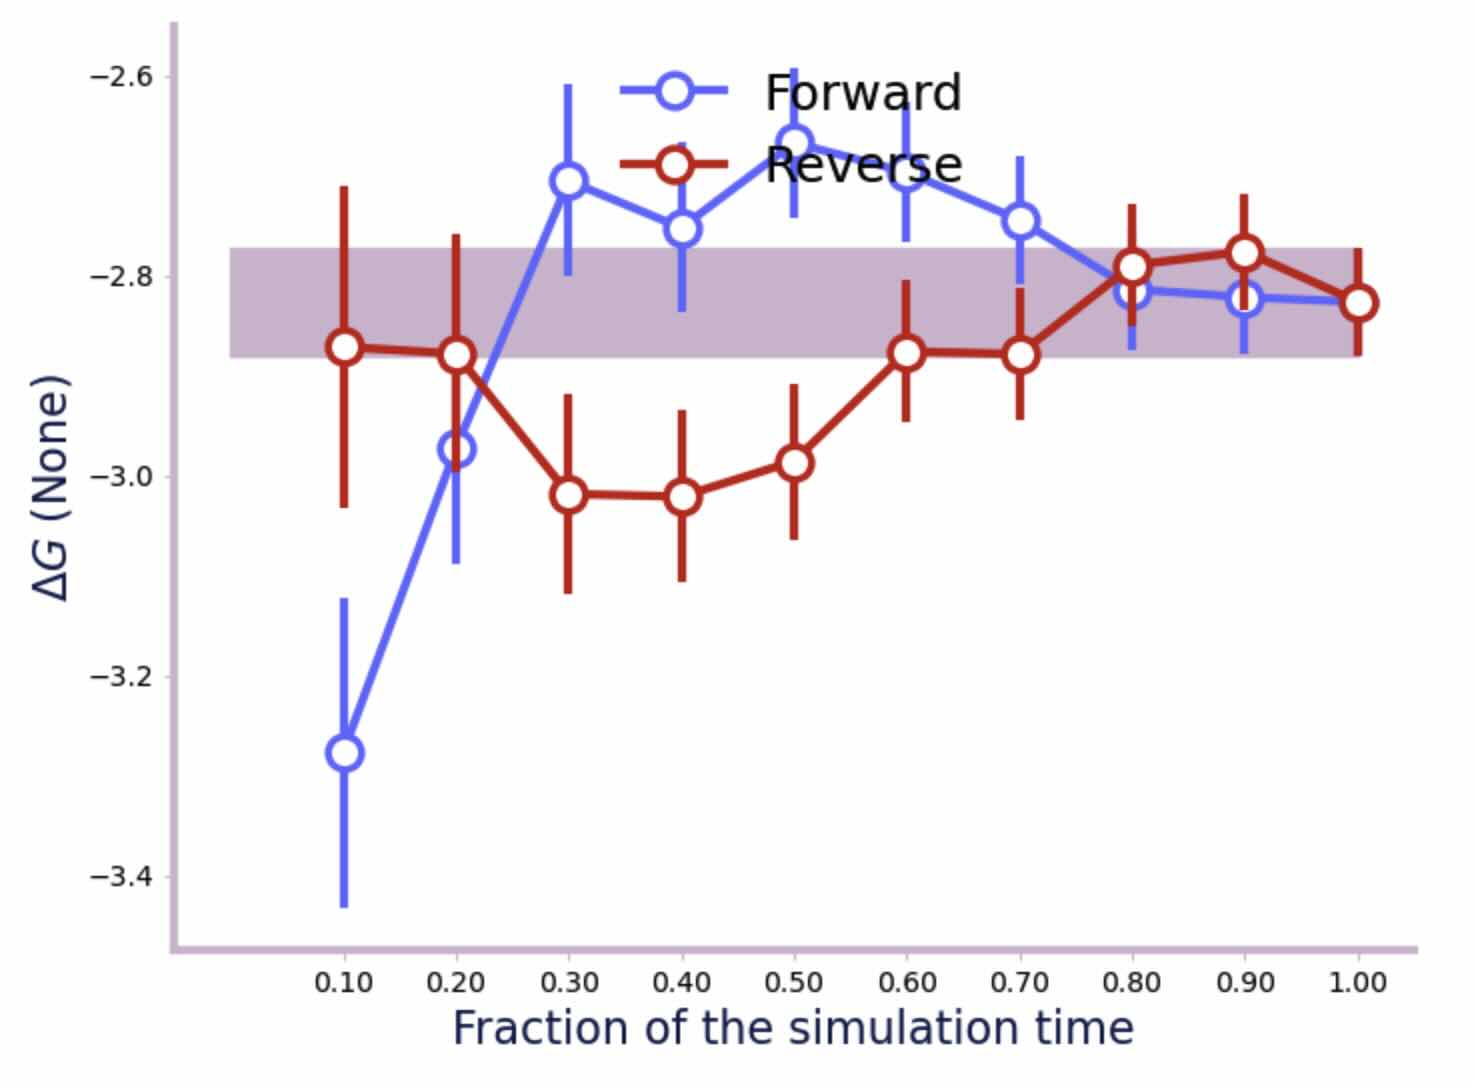
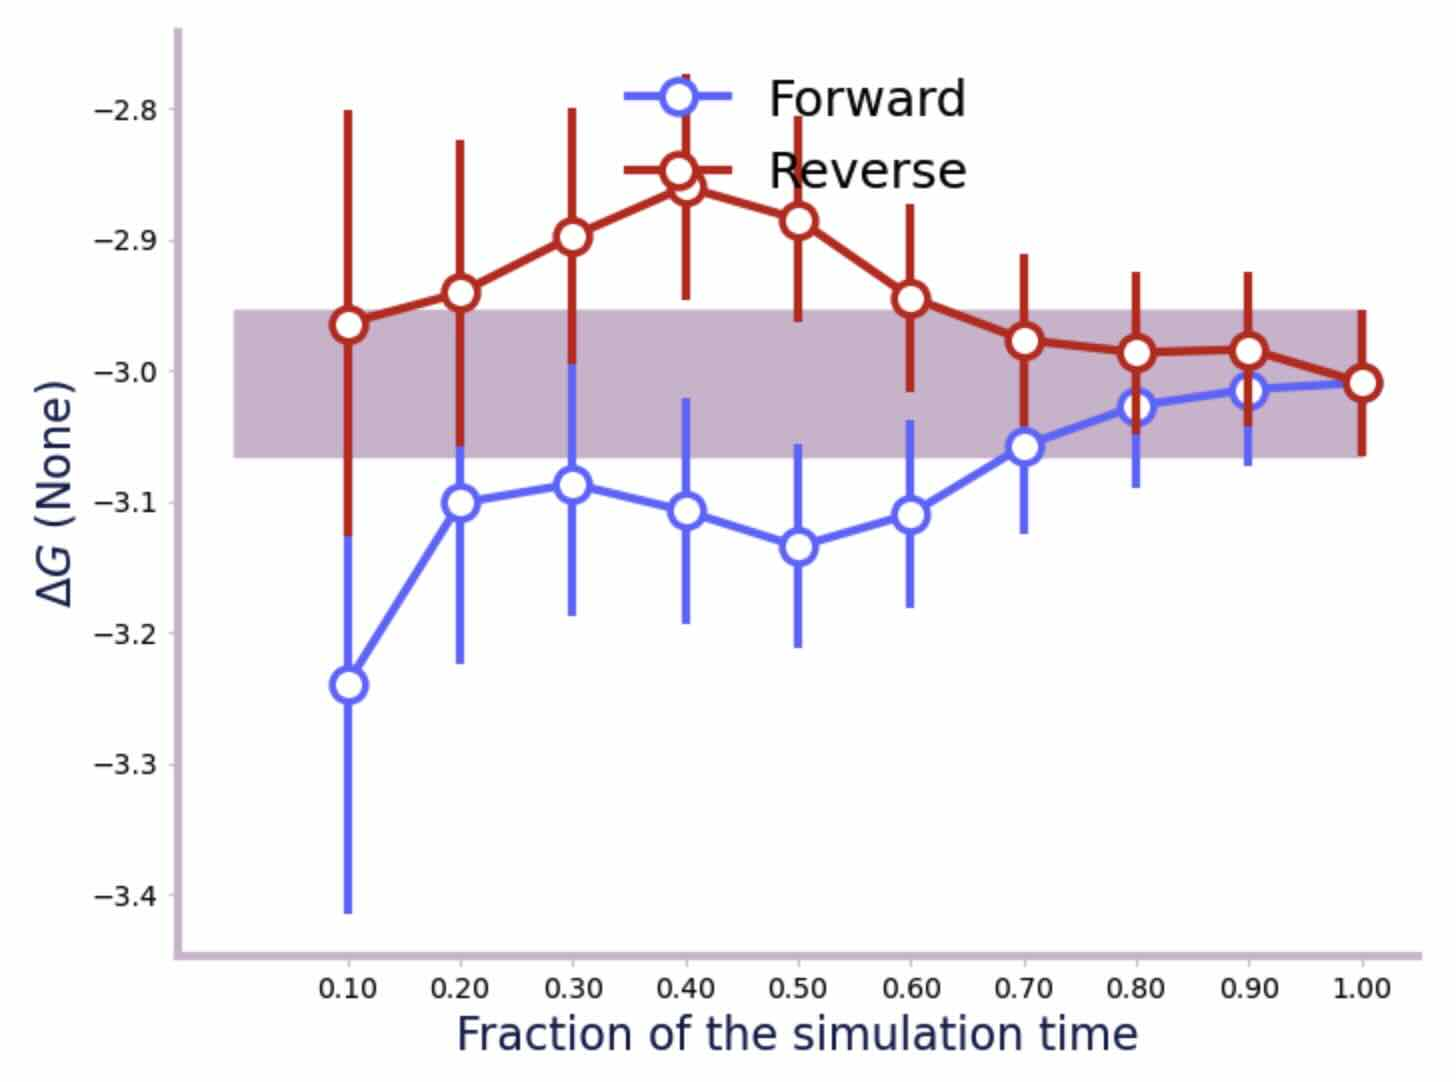
Cleaning up the website ready for the release. Moved the blog posts into their own section so that they appear in the menu.
Fixed the tutorial that hadn't been updated with the new default value of
to_pandas=False

Re-ran the simulations in 05_free_energy_perturbation to make sure that they
were consistent and worked with the new options. The results are in great
agreement with those on the next page.

[ci skip]

Changed region(s): [[0.0, 0.0305, 0.989, 0.976]]

diff --git a/doc/source/tutorial/part06/02_alchemical_dynamics.rst b/doc/source/tutorial/part06/02_alchemical_dynamics.rst
@@ -42,6 +42,8 @@ For example, we could minimise our alchemical system at λ=0.5 using
 
 >>> import sire as sr
 >>> mols = sr.load(sr.expand(sr.tutorial_url, "merged_molecule.s3"))
+>>> for mol in mols.molecules("molecule property is_perturbable"):
+...     mols.update(mol.perturbation().link_to_reference().commit())
 >>> mols = mols.minimisation(lambda_value=0.5).run().commit()
 
 We can then run some dynamics at this λ-value using
@@ -50,7 +52,7 @@ We can then run some dynamics at this λ-value using
 >>> d.run("10ps", save_frequency="1ps")
 >>> mols = d.commit()
 >>> print(d)
-Dynamics(completed=10 ps, energy=-31213.8 kcal mol-1, speed=194.7 ns day-1)
+Dynamics(completed=10 ps, energy=-33741.4 kcal mol-1, speed=90.7 ns day-1)
 
 The result of dynamics is a trajectory run at this λ-value. You can view the
 trajectory as you would any other, using ``mols.view()``.
@@ -64,20 +66,21 @@ sampled by the molecules during the trajectory. You can access this
 energy trajectory via the :func:`~sire.system.System.energy_trajectory`
 function, e.g.
 
->>> df = mols.energy_trajectory()
->>> print(df)
-          kinetic     potential
-time
-1.0   4461.033219 -43523.347617
-2.0   6095.724385 -41312.514682
-3.0   6588.720597 -40003.958276
-4.0   6853.529444 -39283.565112
-5.0   7080.551573 -38722.021135
-6.0   7073.422652 -38677.147808
-7.0   7086.066481 -38527.530217
-8.0   7264.413320 -38408.505361
-9.0   7271.934837 -38589.671709
-10.0  7214.294605 -38444.356221
+>>> t = mols.energy_trajectory()
+>>> print(t)
+EnergyTrajectory( size=10
+time	lambda	0.5	kinetic	potential
+1	0.5	-45509.8	4402.32	-45509.8
+2	0.5	-43644.2	6105.82	-43644.2
+3	0.5	-42466.9	6635.76	-42466.9
+4	0.5	-41678.9	7006.96	-41678.9
+5	0.5	-41306.2	7019.09	-41306.2
+6	0.5	-41201.9	7098.73	-41201.9
+7	0.5	-41046.8	7229.69	-41046.8
+8	0.5	-40949.4	7172.58	-40949.4
+9	0.5	-40928.5	7234.13	-40928.5
+10	0.5	-40855.4	7226.52	-40855.4
+)
 
 .. note::
 
@@ -85,26 +88,31 @@ time
    and temperature control. The exact energies you get from dynamics will
    be different to what is shown here.
 
-By default, this trajectory is returned as a
-`pandas DataFrame <https://pandas.pydata.org/pandas-docs/stable/reference/frame.html>`__.
-You can get the underlying :class:`sire.maths.EnergyTrajectory` function
-by passing ``to_pandas=False``, e.g.
+The result is a :class:`sire.maths.EnergyTrajectory` object. If you want,
+you can also ask for the energy trajetory to be returned as a
+`pandas DataFrame <https://pandas.pydata.org/pandas-docs/stable/reference/frame.html>`__,
+by using the ``to_pandas`` argument, e.g.
 
->>> t = mols.energy_trajectory(to_pandas=False)
->>> print(t)
-EnergyTrajectory( size=10
-time	kinetic	potential
-1	4461.03	-43523.3
-2	6095.72	-41312.5
-3	6588.72	-40004
-4	6853.53	-39283.6
-5	7080.55	-38722
-6	7073.42	-38677.1
-7	7086.07	-38527.5
-8	7264.41	-38408.5
-9	7271.93	-38589.7
-10	7214.29	-38444.4
-)
+>>> df = mols.energy_trajectory(to_pandas=True)
+>>> print(df)
+      lambda           0.5      kinetic     potential
+time
+1.0      0.5 -45509.784041  4402.317703 -45509.784041
+2.0      0.5 -43644.165016  6105.819473 -43644.165016
+3.0      0.5 -42466.942263  6635.760728 -42466.942263
+4.0      0.5 -41678.910475  7006.955030 -41678.910475
+5.0      0.5 -41306.210905  7019.094675 -41306.210905
+6.0      0.5 -41201.944653  7098.727370 -41201.944653
+7.0      0.5 -41046.829930  7229.685671 -41046.829930
+8.0      0.5 -40949.435093  7172.578640 -40949.435093
+9.0      0.5 -40928.462340  7234.130710 -40928.462340
+10.0     0.5 -40855.386336  7226.516672 -40855.386336
+
+.. note::
+
+   You could also have obtained a DataFrame by calling the
+   :meth:`~sire.maths.EnergyTrajectory.to_pandas` function of
+   the :class:`~sire.maths.EnergyTrajectory` object.
 
 You calculate free energies by evaluating the potential energy for different
 values of λ during dynamics. You can control which values of λ are used
@@ -113,28 +121,29 @@ values of λ during dynamics. You can control which values of λ are used
 >>> d = mols.dynamics(lambda_value=0.5, timestep="4fs", temperature="25oC")
 >>> d.run("10ps", save_frequency="1ps", lambda_windows=[0.4, 0.6])
 >>> mols = d.commit()
->>> print(mols.energy_trajectory())
-               0.4           0.5           0.6      kinetic     potential
+>>> print(mols.energy_trajectory().to_pandas())
+      lambda           0.4           0.5           0.6      kinetic     potential
 time
-1.0            NaN           NaN           NaN  4461.033219 -43523.347617
-2.0            NaN           NaN           NaN  6095.724385 -41312.514682
-3.0            NaN           NaN           NaN  6588.720597 -40003.958276
-4.0            NaN           NaN           NaN  6853.529444 -39283.565112
-5.0            NaN           NaN           NaN  7080.551573 -38722.021135
-6.0            NaN           NaN           NaN  7073.422652 -38677.147808
-7.0            NaN           NaN           NaN  7086.066481 -38527.530217
-8.0            NaN           NaN           NaN  7264.413320 -38408.505361
-9.0            NaN           NaN           NaN  7271.934837 -38589.671709
-10.0           NaN           NaN           NaN  7214.294605 -38444.356221
-11.0 -40712.392040 -40712.520657 -40712.684409  6154.441842 -40712.520657
-12.0 -39714.124832 -39714.253449 -39714.327574  6611.854460 -39714.253449
-13.0 -39152.132719 -39152.769223 -39153.291484  6924.754530 -39152.769223
-14.0 -38791.263933 -38791.601680 -38791.944687  7027.605561 -38791.601680
-15.0 -38568.331333 -38568.519701 -38568.683453  7040.809156 -38568.519701
-16.0 -38558.203465 -38558.302206 -38558.376331  7166.843369 -38558.302206
-17.0 -38605.586352 -38606.133229 -38606.595738  7195.020226 -38606.133229
-18.0 -38618.731667 -38618.412148 -38618.068013  7170.302626 -38618.412148
-19.0 -38611.651122 -38612.317502 -38612.989142  7182.904255 -38612.317502
+1.0      0.5           NaN -45509.784041           NaN  4402.317703 -45509.784041
+2.0      0.5           NaN -43644.165016           NaN  6105.819473 -43644.165016
+3.0      0.5           NaN -42466.942263           NaN  6635.760728 -42466.942263
+4.0      0.5           NaN -41678.910475           NaN  7006.955030 -41678.910475
+5.0      0.5           NaN -41306.210905           NaN  7019.094675 -41306.210905
+6.0      0.5           NaN -41201.944653           NaN  7098.727370 -41201.944653
+7.0      0.5           NaN -41046.829930           NaN  7229.685671 -41046.829930
+8.0      0.5           NaN -40949.435093           NaN  7172.578640 -40949.435093
+9.0      0.5           NaN -40928.462340           NaN  7234.130710 -40928.462340
+10.0     0.5           NaN -40855.386336           NaN  7226.516672 -40855.386336
+11.0     0.5 -43210.778752 -43211.624385 -43211.937516  6219.582732 -43211.624385
+12.0     0.5 -42405.359296 -42405.219032 -42404.934648  6807.796036 -42405.219032
+13.0     0.5 -41724.163073 -41724.470944 -41724.664572  6942.723457 -41724.470944
+14.0     0.5 -41282.749354 -41282.638965 -41282.324706  7174.870863 -41282.638965
+15.0     0.5 -41091.395386 -41090.926489 -41090.283597  7121.938171 -41090.926489
+16.0     0.5 -41020.530186 -41020.300294 -41019.896407  7243.171748 -41020.300294
+17.0     0.5 -41027.939363 -41027.739347 -41027.365337  7112.568694 -41027.739347
+18.0     0.5 -40947.962069 -40948.210188 -40948.254438  7086.990231 -40948.210188
+19.0     0.5 -41063.162834 -41064.038343 -41064.470977  7173.505327 -41064.038343
+20.0     0.5 -40997.466132 -40997.774003 -40997.907880  7211.324644 -40997.774003
 
 This has run a new trajectory, evaluating the potential energy at the
 simulation λ-value (0.5) as well as at λ-windows 0.4 and 0.6. You can pass in
@@ -166,20 +175,20 @@ but saving energies every 20 femtoseconds.
 >>> d.run("10ps", frame_frequency="1ps", energy_frequency="20fs",
 ...       lambda_windows=[0.4, 0.6])
 >>> mols = d.commit()
->>> print(mols.energy_trajectory())
-                0.4           0.5           0.6      kinetic     potential
+>>> print(mols.energy_trajectory().to_pandas())
+       lambda           0.4           0.5           0.6      kinetic     potential
 time
-1.00            NaN           NaN           NaN  4461.033219 -43523.347617
-2.00            NaN           NaN           NaN  6095.724385 -41312.514682
-3.00            NaN           NaN           NaN  6588.720597 -40003.958276
-4.00            NaN           NaN           NaN  6853.529444 -39283.565112
-5.00            NaN           NaN           NaN  7080.551573 -38722.021135
-...             ...           ...           ...          ...           ...
-29.92 -38389.435539 -38389.414777 -38389.279773  7332.296186 -38389.414777
-29.94 -38353.913312 -38354.131556 -38354.235557  7301.874742 -38354.131556
-29.96 -38371.599736 -38371.549099 -38371.384218  7293.633958 -38371.549099
-29.98 -38253.351648 -38253.271135 -38253.195882  7186.511174 -38253.271135
-30.00 -38305.305520 -38305.195131 -38305.090002  7234.784841 -38305.195131
+1.00      0.5           NaN -45509.784041           NaN  4402.317703 -45509.784041
+2.00      0.5           NaN -43644.165016           NaN  6105.819473 -43644.165016
+3.00      0.5           NaN -42466.942263           NaN  6635.760728 -42466.942263
+4.00      0.5           NaN -41678.910475           NaN  7006.955030 -41678.910475
+5.00      0.5           NaN -41306.210905           NaN  7019.094675 -41306.210905
+...       ...           ...           ...           ...          ...           ...
+29.92     0.5 -40892.930998 -40892.850485 -40892.506350  7306.237779 -40892.850485
+29.94     0.5 -40890.720195 -40891.326823 -40891.729581  7314.180669 -40891.326823
+29.96     0.5 -40869.209679 -40868.920036 -40868.426522  7305.782760 -40868.920036
+29.98     0.5 -40828.250071 -40828.378688 -40828.243683  7270.175960 -40828.378688
+30.00     0.5 -40764.913551 -40764.504405 -40763.921264  7140.896560 -40764.504405
 
 Controlling perturbations with a λ-schedule
 -------------------------------------------

diff --git a/doc/source/tutorial/part06/05_free_energy_perturbation.rst b/doc/source/tutorial/part06/05_free_energy_perturbation.rst
@@ -168,17 +168,17 @@ DataFrame...
 >>> print(df)
                          0.00          0.05  0.10  0.15  0.20  0.25  0.30  0.35  ...  0.65  0.70  0.75  0.80  0.85  0.90          0.95          1.00
 time fep-lambda                                                                  ...
-2.1  0.0        -39086.631401 -39087.128936   NaN   NaN   NaN   NaN   NaN   NaN  ...   NaN   NaN   NaN   NaN   NaN   NaN           NaN           NaN
-2.2  0.0        -39061.954059 -39062.600973   NaN   NaN   NaN   NaN   NaN   NaN  ...   NaN   NaN   NaN   NaN   NaN   NaN           NaN           NaN
-2.3  0.0        -38843.084556 -38843.492464   NaN   NaN   NaN   NaN   NaN   NaN  ...   NaN   NaN   NaN   NaN   NaN   NaN           NaN           NaN
-2.4  0.0        -38841.351765 -38841.968803   NaN   NaN   NaN   NaN   NaN   NaN  ...   NaN   NaN   NaN   NaN   NaN   NaN           NaN           NaN
-2.5  0.0        -38809.474375 -38810.061537   NaN   NaN   NaN   NaN   NaN   NaN  ...   NaN   NaN   NaN   NaN   NaN   NaN           NaN           NaN
+2.1  0.0        -39300.750665 -39301.636585   NaN   NaN   NaN   NaN   NaN   NaN  ...   NaN   NaN   NaN   NaN   NaN   NaN           NaN           NaN
+2.2  0.0        -39231.737759 -39232.504175   NaN   NaN   NaN   NaN   NaN   NaN  ...   NaN   NaN   NaN   NaN   NaN   NaN           NaN           NaN
+2.3  0.0        -38982.663906 -38982.683430   NaN   NaN   NaN   NaN   NaN   NaN  ...   NaN   NaN   NaN   NaN   NaN   NaN           NaN           NaN
+2.4  0.0        -38950.308505 -38950.357904   NaN   NaN   NaN   NaN   NaN   NaN  ...   NaN   NaN   NaN   NaN   NaN   NaN           NaN           NaN
+2.5  0.0        -38732.275522 -38733.221193   NaN   NaN   NaN   NaN   NaN   NaN  ...   NaN   NaN   NaN   NaN   NaN   NaN           NaN           NaN
 ...                       ...           ...   ...   ...   ...   ...   ...   ...  ...   ...   ...   ...   ...   ...   ...           ...           ...
-26.6 1.0                  NaN           NaN   NaN   NaN   NaN   NaN   NaN   NaN  ...   NaN   NaN   NaN   NaN   NaN   NaN -37433.120745 -37433.277280
-26.7 1.0                  NaN           NaN   NaN   NaN   NaN   NaN   NaN   NaN  ...   NaN   NaN   NaN   NaN   NaN   NaN -37306.925716 -37307.769393
-26.8 1.0                  NaN           NaN   NaN   NaN   NaN   NaN   NaN   NaN  ...   NaN   NaN   NaN   NaN   NaN   NaN -37447.401338 -37447.826754
-26.9 1.0                  NaN           NaN   NaN   NaN   NaN   NaN   NaN   NaN  ...   NaN   NaN   NaN   NaN   NaN   NaN -37415.822705 -37416.427376
-27.0 1.0                  NaN           NaN   NaN   NaN   NaN   NaN   NaN   NaN  ...   NaN   NaN   NaN   NaN   NaN   NaN -37371.756022 -37372.181439
+26.6 1.0                  NaN           NaN   NaN   NaN   NaN   NaN   NaN   NaN  ...   NaN   NaN   NaN   NaN   NaN   NaN -37208.485229 -37208.880770
+26.7 1.0                  NaN           NaN   NaN   NaN   NaN   NaN   NaN   NaN  ...   NaN   NaN   NaN   NaN   NaN   NaN -37332.051194 -37332.476611
+26.8 1.0                  NaN           NaN   NaN   NaN   NaN   NaN   NaN   NaN  ...   NaN   NaN   NaN   NaN   NaN   NaN -37276.392733 -37276.609020
+26.9 1.0                  NaN           NaN   NaN   NaN   NaN   NaN   NaN   NaN  ...   NaN   NaN   NaN   NaN   NaN   NaN -37234.238097 -37234.603762
+27.0 1.0                  NaN           NaN   NaN   NaN   NaN   NaN   NaN   NaN  ...   NaN   NaN   NaN   NaN   NaN   NaN -37268.684798 -37269.319345
 
 .. note::
 
@@ -201,7 +201,7 @@ Now we can tell alchemlyb to calculate the free energy using the BAR method.
 >>> b = BAR()
 >>> b.fit(df)
 >>> print(b.delta_f_.loc[0.00, 1.00])
--2.826669414062424
+-3.009332126465953
 
 You can get a convergence plot, showing how the free energy changes as
 a function of the simulation length using the ``convergence_plot`` function.
@@ -215,7 +215,7 @@ a function of the simulation length using the ``convergence_plot`` function.
    :alt: Convergence of the free energy estimate as a function of the fraction of simulation length
 
 All of this shows that the relative free energy for the perturbation of
-ethane to methanol in water is about -2.8 kcal mol-1.
+ethane to methanol in water is about -3.0 kcal mol-1.
 
 To get the relative hydration free energy, we would need to complete the
 cycle by calculating the relative free energy for the perturbation in the
@@ -277,27 +277,27 @@ switch to analysing the ``energy_gas_{lambda}.s3`` files instead.
 >>> print(df)
                      0.00      0.05  0.10  0.15  0.20  0.25  0.30  0.35  0.40  ...  0.60  0.65  0.70  0.75  0.80  0.85  0.90      0.95      1.00
 time fep-lambda                                                                ...
-2.1  0.0         4.085486  4.142311   NaN   NaN   NaN   NaN   NaN   NaN   NaN  ...   NaN   NaN   NaN   NaN   NaN   NaN   NaN       NaN       NaN
-2.2  0.0         3.664548  3.540637   NaN   NaN   NaN   NaN   NaN   NaN   NaN  ...   NaN   NaN   NaN   NaN   NaN   NaN   NaN       NaN       NaN
-2.3  0.0         4.288558  4.217284   NaN   NaN   NaN   NaN   NaN   NaN   NaN  ...   NaN   NaN   NaN   NaN   NaN   NaN   NaN       NaN       NaN
-2.4  0.0         5.630108  5.656710   NaN   NaN   NaN   NaN   NaN   NaN   NaN  ...   NaN   NaN   NaN   NaN   NaN   NaN   NaN       NaN       NaN
-2.5  0.0         5.823004  5.901361   NaN   NaN   NaN   NaN   NaN   NaN   NaN  ...   NaN   NaN   NaN   NaN   NaN   NaN   NaN       NaN       NaN
+2.1  0.0         6.966376  7.115377   NaN   NaN   NaN   NaN   NaN   NaN   NaN  ...   NaN   NaN   NaN   NaN   NaN   NaN   NaN       NaN       NaN
+2.2  0.0         6.614100  6.434525   NaN   NaN   NaN   NaN   NaN   NaN   NaN  ...   NaN   NaN   NaN   NaN   NaN   NaN   NaN       NaN       NaN
+2.3  0.0         6.782235  6.831925   NaN   NaN   NaN   NaN   NaN   NaN   NaN  ...   NaN   NaN   NaN   NaN   NaN   NaN   NaN       NaN       NaN
+2.4  0.0         4.196341  4.227257   NaN   NaN   NaN   NaN   NaN   NaN   NaN  ...   NaN   NaN   NaN   NaN   NaN   NaN   NaN       NaN       NaN
+2.5  0.0         4.141862  4.205784   NaN   NaN   NaN   NaN   NaN   NaN   NaN  ...   NaN   NaN   NaN   NaN   NaN   NaN   NaN       NaN       NaN
 ...                   ...       ...   ...   ...   ...   ...   ...   ...   ...  ...   ...   ...   ...   ...   ...   ...   ...       ...       ...
-26.6 1.0              NaN       NaN   NaN   NaN   NaN   NaN   NaN   NaN   NaN  ...   NaN   NaN   NaN   NaN   NaN   NaN   NaN  9.700262  9.410045
-26.7 1.0              NaN       NaN   NaN   NaN   NaN   NaN   NaN   NaN   NaN  ...   NaN   NaN   NaN   NaN   NaN   NaN   NaN  8.392478  8.604776
-26.8 1.0              NaN       NaN   NaN   NaN   NaN   NaN   NaN   NaN   NaN  ...   NaN   NaN   NaN   NaN   NaN   NaN   NaN  9.079360  9.535467
-26.9 1.0              NaN       NaN   NaN   NaN   NaN   NaN   NaN   NaN   NaN  ...   NaN   NaN   NaN   NaN   NaN   NaN   NaN  8.791467  8.723334
-27.0 1.0              NaN       NaN   NaN   NaN   NaN   NaN   NaN   NaN   NaN  ...   NaN   NaN   NaN   NaN   NaN   NaN   NaN  8.933618  9.388087
+26.6 1.0              NaN       NaN   NaN   NaN   NaN   NaN   NaN   NaN   NaN  ...   NaN   NaN   NaN   NaN   NaN   NaN   NaN  8.246601  8.707174
+26.7 1.0              NaN       NaN   NaN   NaN   NaN   NaN   NaN   NaN   NaN  ...   NaN   NaN   NaN   NaN   NaN   NaN   NaN  7.169596  7.100342
+26.8 1.0              NaN       NaN   NaN   NaN   NaN   NaN   NaN   NaN   NaN  ...   NaN   NaN   NaN   NaN   NaN   NaN   NaN  6.422485  6.466972
+26.9 1.0              NaN       NaN   NaN   NaN   NaN   NaN   NaN   NaN   NaN  ...   NaN   NaN   NaN   NaN   NaN   NaN   NaN  5.892950  6.129184
+27.0 1.0              NaN       NaN   NaN   NaN   NaN   NaN   NaN   NaN   NaN  ...   NaN   NaN   NaN   NaN   NaN   NaN   NaN  7.487893  7.618827
 >>> from alchemlyb.estimators import BAR
 >>> b = BAR()
 >>> b.fit(df)
 >>> print(b.delta_f_.loc[0.00, 1.00])
-3.049637014744972
+3.186998316374265
 
 This shows that the relative free energy for the perturbation of ethane
-to methanol in the gas phase is about 3.0 kcal mol-1. Subtracting this
+to methanol in the gas phase is about 3.2 kcal mol-1. Subtracting this
 from the free energy in water gives a relative hydration free energy of
-about -5.9 kcal mol-1, which is in reasonable agreement with
+about -6.2 kcal mol-1, which is in reasonable agreement with
 `published results from other codes <https://www.pure.ed.ac.uk/ws/portalfiles/portal/75900057/20181010_Michel_reprod.pdf>`__
 which are in the range of -5.99 kcal mol-1 to -6.26 kcal mol-1.
 

diff --git a/doc/source/blogposts.rst b/doc/source/blogposts.rst
@@ -1,0 +1,45 @@
+=======
+Diaries
+=======
+
+Development of :mod:`sire` is an ongoing process involving many people.
+This section of the documentation is a collection of diary-style
+blog posts that describe the development of :mod:`sire` and
+new features as they are added.
+
+What's in a file? Using sire search
+-----------------------------------
+
+* `What's in a file? Using sire search <https://www.openbiosim.org/ten-minute-sire-challenge/>`__
+
+In this first post, written around the 2023.1 release,
+we describe the :doc:`sire search <cheatsheet/search>`
+functionality that enables :mod:`sire` to act like a molecular information
+search engine.
+
+Working with RDKit
+------------------
+
+* `Working with RDKit <https://www.openbiosim.org/working-with-rdkit/>`__
+
+In this second post, written around the 2023.2 release,
+we show how :doc:`integration with RDKit <tutorial/part05/03_smiles>`
+enables :mod:`sire` to work with SMILES strings and RDKit molecules.
+
+Working with OpenMM
+-------------------
+
+* `Working with OpenMM <https://www.openbiosim.org/sire-diaries-working-with-openmm/>`__
+
+In this third post, also written around the 2023.2 release,
+we show how :doc:`integration with OpenMM <tutorial/part05/05_dynamics>`
+enables :mod:`sire` to perform GPU-accelerated molecular dynamics simulations.
+
+GPU-accelerated free energies
+-----------------------------
+
+* `GPU-accelerated free energies <https://www.openbiosim.org/sire-diaries-gpu-accelerated-free-energies/>`__
+
+In this fourth post, written around the 2023.4 release,
+we show how the OpenMM integration has been extended to
+enable the :doc:`calculation of free energies <tutorial/index_part06>`.

diff --git a/doc/source/index.rst b/doc/source/index.rst
@@ -30,9 +30,10 @@ Tutorial
 Blog Posts
 ==========
 
-* `What's in a file? Using sire search <https://www.openbiosim.org/ten-minute-sire-challenge/>`__
-* `Working with RDKit <https://www.openbiosim.org/working-with-rdkit/>`__
-* `Working with OpenMM <https://www.openbiosim.org/sire-diaries-working-with-openmm/>`__
+.. toctree::
+   :maxdepth: 2
+
+   blogposts
 
 Detailed Guides
 ===============
